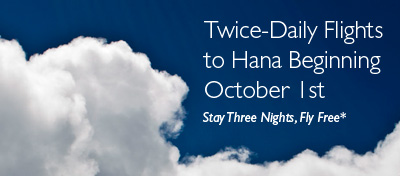
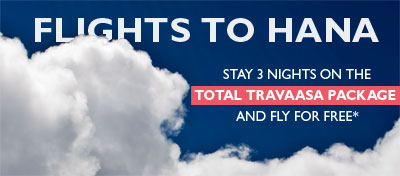
Fly to Hana updates
Images and lightbox html

diff --git a/lightbox/fly-to-hana.html b/lightbox/fly-to-hana.html
@@ -15,10 +15,10 @@
 <body>
         <div id='main_content_frame' style='width: 730px; overflow: auto;'>
             <div style="background:none;" class="main_content_content">
-        <img class="frame-left" src='http://travaasa.com/images/site/hana-by-air-730.jpg' style="width: 710px; margin: 10px 20px 15px 0; text-align:center;" />
+        <img src='http://travaasa.com/images/site/hana-promo-729-fly-to-hana.jpg' style="width: 710px; margin: 10px 20px 15px 0; text-align:center;" />
         <br />
         <h1>Announcing Twice-Daily Flights to Hana, Maui</h1> 
-            <p style="margin: 0 25px 0 20px;">Beginning October 1, 2012, Mokulele Airlines will operate twice-daily flight service from Kahului Airport in Maui to Hana Airport. Travelers will fly aboard a nine-seat Cessna Grand Caravan 208B and enjoy spectacular views of Maui during the 20-minute flight. Ticket prices start at $59 each way and travelers can book their flight starting today by visiting <a href="http://www.mokuleleairlines.com" target="_blank">mokuleleairlines.com</a>.</p>
+            <p style="margin: 0 25px 0 20px;">Mokulele Airlines is now operating twice-daily flight service from Kahului Airport in Maui to Hana Airport. Travelers will fly aboard a nine-seat Cessna Grand Caravan 208B and enjoy spectacular views of Maui during the 20-minute flight. Ticket prices start at <strong>$59 each way</strong> and travelers can book their flight starting today by visiting <a href="http://www.mokuleleairlines.com" target="_blank">mokuleleairlines.com</a>.</p>
             <p style="margin:0 25px 0 20px;"><strong>*FOR A LIMITED TIME</strong>, book 3 nights or longer of Total Travaasa and we’ll pay your round trip fare from Kahului, Maui to Hana, Maui. Select three nights of Total Travaasa and enter code "AIR" when pressing "Book Now" or <a href="https://gc.synxis.com/rez.aspx?Hotel=26987&Chain=10237&template=fHNMHM&shell=HNMHM2&adult=2&promo=AIR&nights=3" target="_blank" onclick="_gaq.push(['_link', 'https://gc.synxis.com/rez.aspx?Hotel=26987&Chain=10237&template=fHNMHM&shell=HNMHM2&promo=AIR&nights=3']); return false;">click here to book.</a><br /><br /><span style="color:#707070;"><em>Based on availability at time of booking. Offer valid for flights on Mokulele Airlines only.</em></span></p> 
 			<p style="margin: 8px 25px 0 20px; color:#5fcbdd; font-size:16px; font-family:helvetica, arial, sans-serif;"><strong>1-855-TO-TRAVAASA (855-868-7282)</strong>&nbsp;&nbsp;<div id="book-gift" style="float: left; margin:0 0 0 20px;"><a href="https://gc.synxis.com/rez.aspx?Hotel=26987&Chain=10237&template=fHNMHM&shell=HNMHM2&adult=2&promo=AIR&nights=3" target="_blank" onclick="_gaq.push(['_link', 'https://gc.synxis.com/rez.aspx?Hotel=26987&Chain=10237&template=fHNMHM&shell=HNMHM2&promo=AIR&nights=3']); return false;">Book Now</a></div></p>
             <!--<p style="margin: 0 25px 0 20px;">Photo Credit: <a href="#" target="_blank">Photo Credit</a></p>-->
